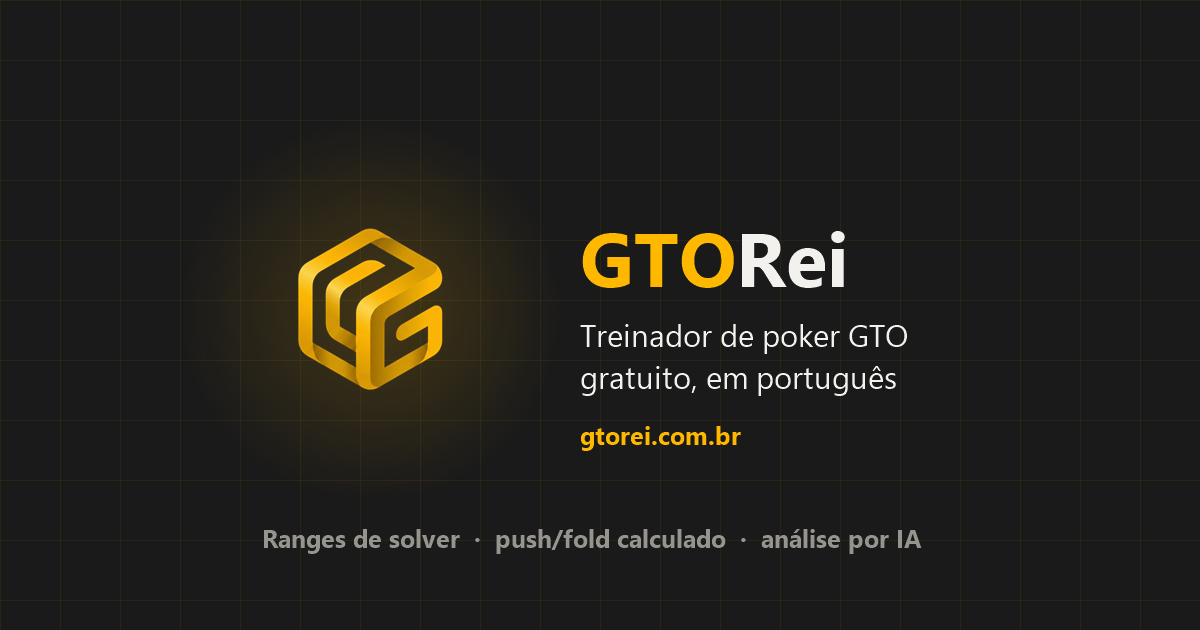
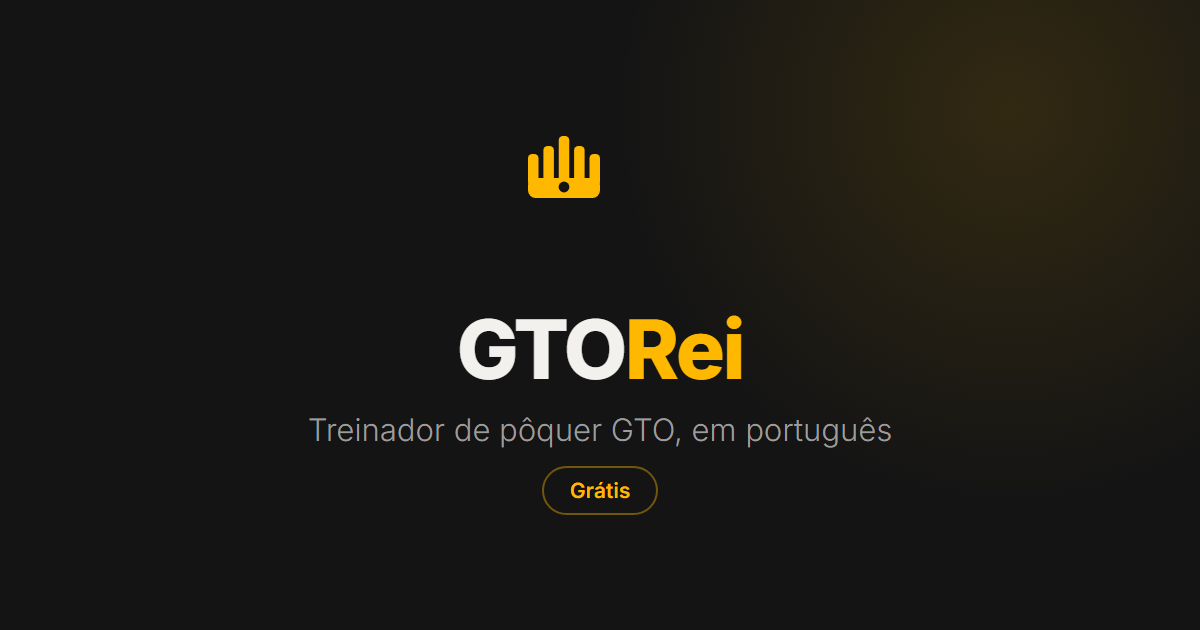
Marca unica: a coroa substitui o personagem e o hexagono
Havia duas marcas no mesmo produto: gtorei-logo.png (personagem 3D) na
barra lateral e logo-128.png (hexagono) na home. O personagem nao lia a
24px e o hexagono nao lia como letra.

Agora e uma coroa so, definida em src/assets/gtorei-coroa.svg. Cinco
dentes afundados numa faixa continua (barra solta lia como equalizador),
proporcao central/externo 1,56 e joia vazada em cy 71.

scripts/gerar-marca.cjs deriva favicon, icones 32/128/192 e as imagens
de compartilhamento do mesmo SVG. Mudar a marca e mudar um arquivo.

Removidos gtorei-logo.png e gtorei-crown.png, sem uso.

Changed region(s): [[0.2158, 0.3016, 0.7708, 0.8746], [0.4317, 0.2111, 0.5242, 0.3317]]

diff --git a/src/components/layout/AppSidebar.tsx b/src/components/layout/AppSidebar.tsx
@@ -20,7 +20,9 @@ import { cn } from '@/lib/utils';
 import { SettingsModal } from './SettingsModal';
 import { useAuth } from '@/contexts/AuthContext';
 import { useLanguage } from '@/contexts/LanguageContext';
-import gtoreiLogo from '@/assets/gtorei-logo.png';
+// Marca única do app. O SVG é a fonte; os PNG de favicon e OG saem dele
+// pelo scripts/gerar-marca.cjs.
+import gtoreiCoroa from '@/assets/gtorei-coroa.svg';
 
 const ADMIN_EMAIL = 'farubini2@gmail.com';
 
@@ -204,7 +206,7 @@ export function AppSidebar() {
           <div className="flex items-center justify-between w-full">
             {!collapsed &&
             <div className="flex items-center gap-3">
-                <img alt="GTORei" className="h-8 w-8 object-contain" src="/lovable-uploads/9c0d8326-a96e-47a8-9e95-40f28d54d109.png" />
+                <img alt="GTORei" className="h-8 w-8 object-contain" src={gtoreiCoroa} />
                 <span className="text-heading-sm">
                   <span className="text-primary">GTO</span>
                   <span className="text-sidebar-foreground">Rei</span>
@@ -213,7 +215,7 @@ export function AppSidebar() {
             }
             {collapsed &&
             <div className="w-full flex justify-center px-1">
-                <img src={gtoreiLogo} alt="GTORei" className="h-7 w-7 object-contain" />
+                <img src={gtoreiCoroa} alt="GTORei" className="h-7 w-7 object-contain" />
               </div>
             }
           </div>

diff --git a/src/components/poker/PokerTable.tsx b/src/components/poker/PokerTable.tsx
@@ -7,7 +7,7 @@ import { PlayerSeat, getPositionColor } from './PlayerSeat';
 import { PlayerBet } from './ChipStack';
 import { CommunityCards } from './CommunityCards';
 import { CardType } from './PlayingCard';
-import gtoreiCrown from '@/assets/gtorei-crown.png';
+import gtoreiCoroa from '@/assets/gtorei-coroa.svg';
 
 // Tipos de ação para o histórico
 export interface ActionEntry {
@@ -327,7 +327,7 @@ export function PokerTable({
             title="Voltar ao início"
             className="absolute left-1/2 top-1/2 z-0 flex -translate-x-1/2 -translate-y-1/2 items-center gap-2 opacity-[0.13] transition-opacity hover:opacity-[0.22]"
           >
-            <img src={gtoreiCrown} alt="" className="h-8 w-8 object-contain sm:h-12 sm:w-12" />
+            <img src={gtoreiCoroa} alt="" className="h-8 w-8 object-contain sm:h-12 sm:w-12" />
             <span className="text-lg font-bold uppercase tracking-[0.2em] sm:text-2xl">
               <span className="text-primary">GTO</span>
               <span className="text-white">REI</span>

diff --git a/src/pages/UpdatesPage.tsx b/src/pages/UpdatesPage.tsx
@@ -22,6 +22,13 @@ const UPCOMING: string[] = [
 
 const UPDATES: UpdateNote[] = [
   {
+    version: '1.20.0',
+    date: '29/09/2026',
+    type: 'improvement',
+    title: 'Marca Nova: a Coroa',
+    description: 'O GTORei tinha duas marcas ao mesmo tempo: um personagem 3D com coroa na barra lateral e um monograma hexagonal na página inicial. O personagem não sobrevivia a 24px e o hexágono não se lia como letra nenhuma. Agora é uma coroa só, em todos os lugares: cinco dentes de alturas diferentes apoiados numa faixa contínua, com uma joia vazada no meio. Tudo — favicon, ícone do celular, imagem de compartilhamento, coroa do centro da mesa — sai de um único SVG, então mudar a marca no futuro é mudar um arquivo.',
+  },
+  {
     version: '1.19.1',
     date: '29/09/2026',
     type: 'improvement',
